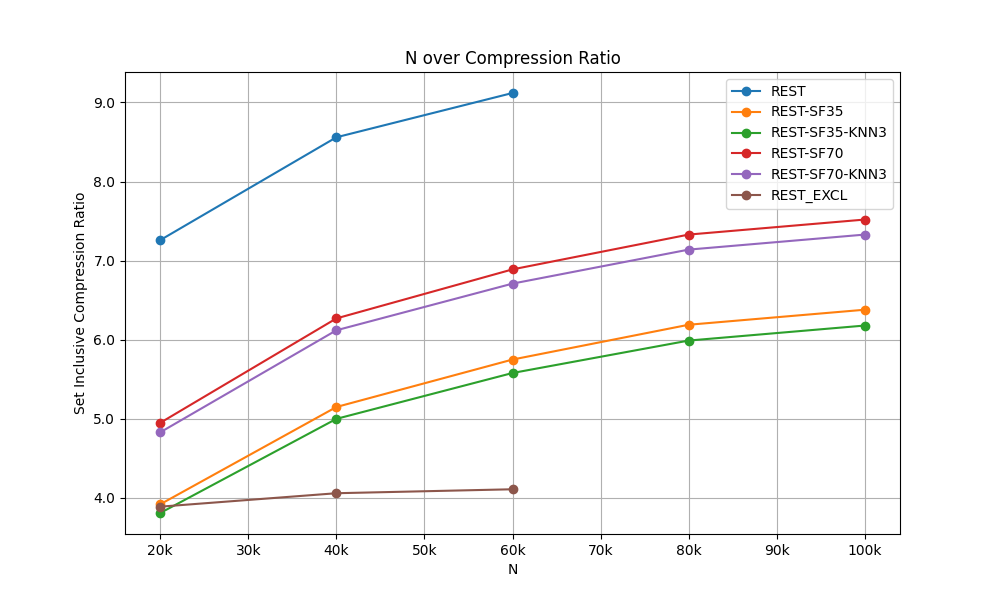
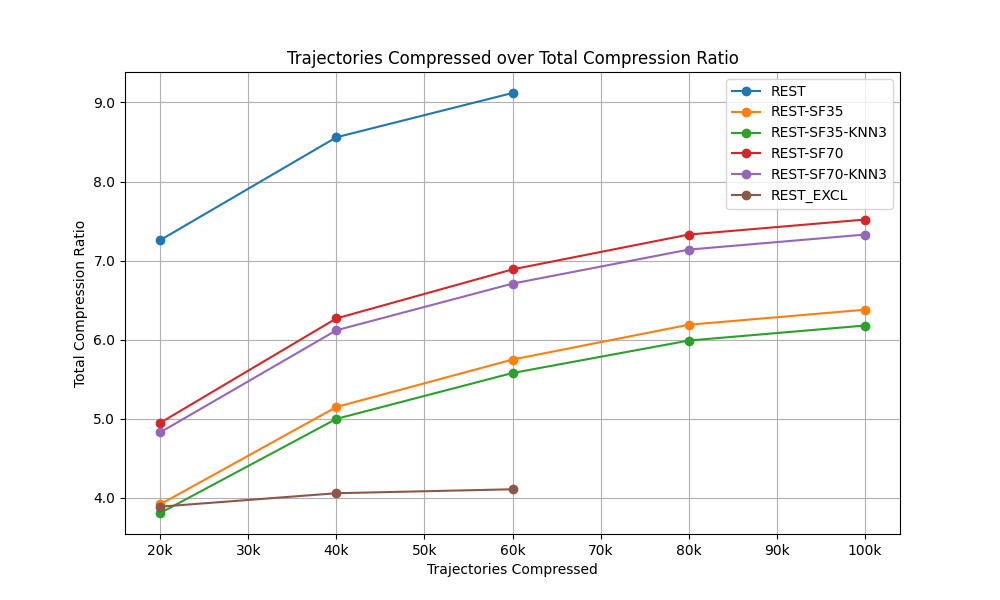
fix reference size used in compression ratio, run tests again

Changed region(s): [[0.279, 0.09, 0.744, 0.12], [0.062, 0.33, 0.093, 0.69], [0.434, 0.93, 0.589, 0.96]]

diff --git a/algo/src/main.rs b/algo/src/main.rs
@@ -15,42 +15,14 @@ fn run_config(conf: Config) -> Result<(), csv::Error> {
 fn main() -> Result<(), csv::Error> {
     let n = 100000;
     let dtw_dist = 200;
-    // Vanilla REST
     let mut rest_mode = RestMode {
         rs: 100,
         compression_ratio: 5,
-        spatial_filter: false,
+        spatial_filter: true,
         include_entire_trajectory: true,
         k: 0,
-        error_point: 0,
+        error_point: 70,
     };
-    //REST
-    run_config(Config {
-        n,
-        max_dtw_dist: dtw_dist,
-        mode: Mode::Rest(rest_mode),
-        dtw_band: 0,
-    })?;
-    //REST_EXCL
-    rest_mode.include_entire_trajectory = false;
-    run_config(Config {
-        n,
-        max_dtw_dist: dtw_dist,
-        mode: Mode::Rest(rest_mode),
-        dtw_band: 0,
-    })?;
-    rest_mode.include_entire_trajectory = true;
-    rest_mode.spatial_filter = true;
-    rest_mode.error_point = 35;
-    //REST-SF35
-    run_config(Config {
-        n,
-        max_dtw_dist: dtw_dist,
-        mode: Mode::Rest(rest_mode),
-        dtw_band: 0,
-    })?;
-    rest_mode.error_point = 70;
-    //REST-SF70
     run_config(Config {
         n,
         max_dtw_dist: dtw_dist,
@@ -58,28 +30,70 @@ fn main() -> Result<(), csv::Error> {
         dtw_band: 0,
     })?;
     rest_mode.k = 3;
-    //REST-SF70-KNN3
     run_config(Config {
         n,
         max_dtw_dist: dtw_dist,
         mode: Mode::Rest(rest_mode),
         dtw_band: 0,
     })?;
+    rest_mode.k = 0;
+    rest_mode.error_point = 120;
+    run_config(Config {
+        n,
+        max_dtw_dist: dtw_dist,
+        mode: Mode::Rest(rest_mode),
+        dtw_band: 0,
+    })?;
+    rest_mode.k = 3;
+    run_config(Config {
+        n,
+        max_dtw_dist: dtw_dist,
+        mode: Mode::Rest(rest_mode),
+        dtw_band: 0,
+    })?;
+
+    //XREST
+    rest_mode.include_entire_trajectory = false;
+    rest_mode.k = 0;
+    rest_mode.error_point = 120;
+    run_config(Config {
+        n,
+        max_dtw_dist: dtw_dist,
+        mode: Mode::Rest(rest_mode),
+        dtw_band: 0,
+    })?;
+    rest_mode.k = 3;
+    run_config(Config {
+        n,
+        max_dtw_dist: dtw_dist,
+        mode: Mode::Rest(rest_mode),
+        dtw_band: 0,
+    })?;
+
+    rest_mode.k = 0;
     rest_mode.spatial_filter = false;
     rest_mode.error_point = 0;
-    //REST-KNN3
     run_config(Config {
         n,
         max_dtw_dist: dtw_dist,
         mode: Mode::Rest(rest_mode),
         dtw_band: 0,
     })?;
-    //DP-DTW
+    rest_mode.include_entire_trajectory = true;
+    run_config(Config {
+        n,
+        max_dtw_dist: dtw_dist,
+        mode: Mode::Rest(rest_mode),
+        dtw_band: 0,
+    })?;
+
+    //DP DTW
     run_config(Config {
         n,
         max_dtw_dist: dtw_dist,
         mode: Mode::DP(DpMode {}),
         dtw_band: 0,
     })?;
+
     Ok(())
 }

diff --git a/algo/src/algorithm.rs b/algo/src/algorithm.rs
@@ -57,7 +57,7 @@ pub fn cr_from_shape(shape: (u64, u64, u64)) -> f64 {
     // i32 is 4 bytes, and x2 for lat and lng
     let point_size = 4.0 * 2.0;
     // 8 byte reference
-    let reference_size = 8.0;
+    let reference_size = 16.0;
     (shape.0 as f64 * point_size)
         / ((shape.2 as f64 * point_size) + (shape.1 as f64 * reference_size))
 }
@@ -253,7 +253,7 @@ pub fn rest_main(
                 .collect::<Result<Vec<_>, _>>()?;
             let mut encoded_cr = Vec::new();
             let final_reference_vectors = reference_set.iter().map(|t| t.as_slice()).collect_vec();
-            n_trajectories.iter().enumerate().for_each(|(i, t)| {
+            for (i, t) in n_trajectories.iter().enumerate() {
                 let (encoded_trajectory, shape) = encode(
                     final_reference_vectors.as_slice(),
                     &t.as_slice(),
@@ -322,8 +322,11 @@ pub fn rest_main(
                         format!("{:.2}", avg_cr),
                         format!("{:.2}", cr_set_inclusive),
                     );
+                    if begin.elapsed().as_secs_f64() > 60.0 * 60.0 * 20.0 {
+                        break;
+                    }
                 }
-            });
+            }
             let avg_cr = encoded_cr
                 .iter()
                 .map(|&(_, shape)| cr_from_shape(shape))

diff --git a/plotting/plot.py b/plotting/plot.py
@@ -39,9 +39,9 @@ def plot_grouped_data(df, group_column, x_column, y_column, path, titles, x_form
 
 # Apply the function with direct conversion of runtime to hours
 titles = {
-    'title': 'N over Runtime',
+    'title': 'Trajectories Compressed over Runtime',
     'y': 'Runtime (hours)',
-    'x': 'N',
+    'x': 'Trajectories Compressed',
 }
 file_path = 'tmp.csv'
 plot_grouped_data(pd.read_csv(file_path), 'mode', 'n', 'seconds', 'n_runtime.png', titles, format_1k, format_seconds_minutes)
@@ -52,9 +52,9 @@ plot_grouped_data(
     'tot_cr',
     'tot_compression.png',
     {
-        'title': 'N over Compression Ratio',
-        'y': 'Set Inclusive Compression Ratio',
-        'x': 'N',
+        'title': 'Trajectories Compressed over Total Compression Ratio',
+        'y': 'Total Compression Ratio',
+        'x': 'Trajectories Compressed',
     },
     format_1k,
     no_format,
